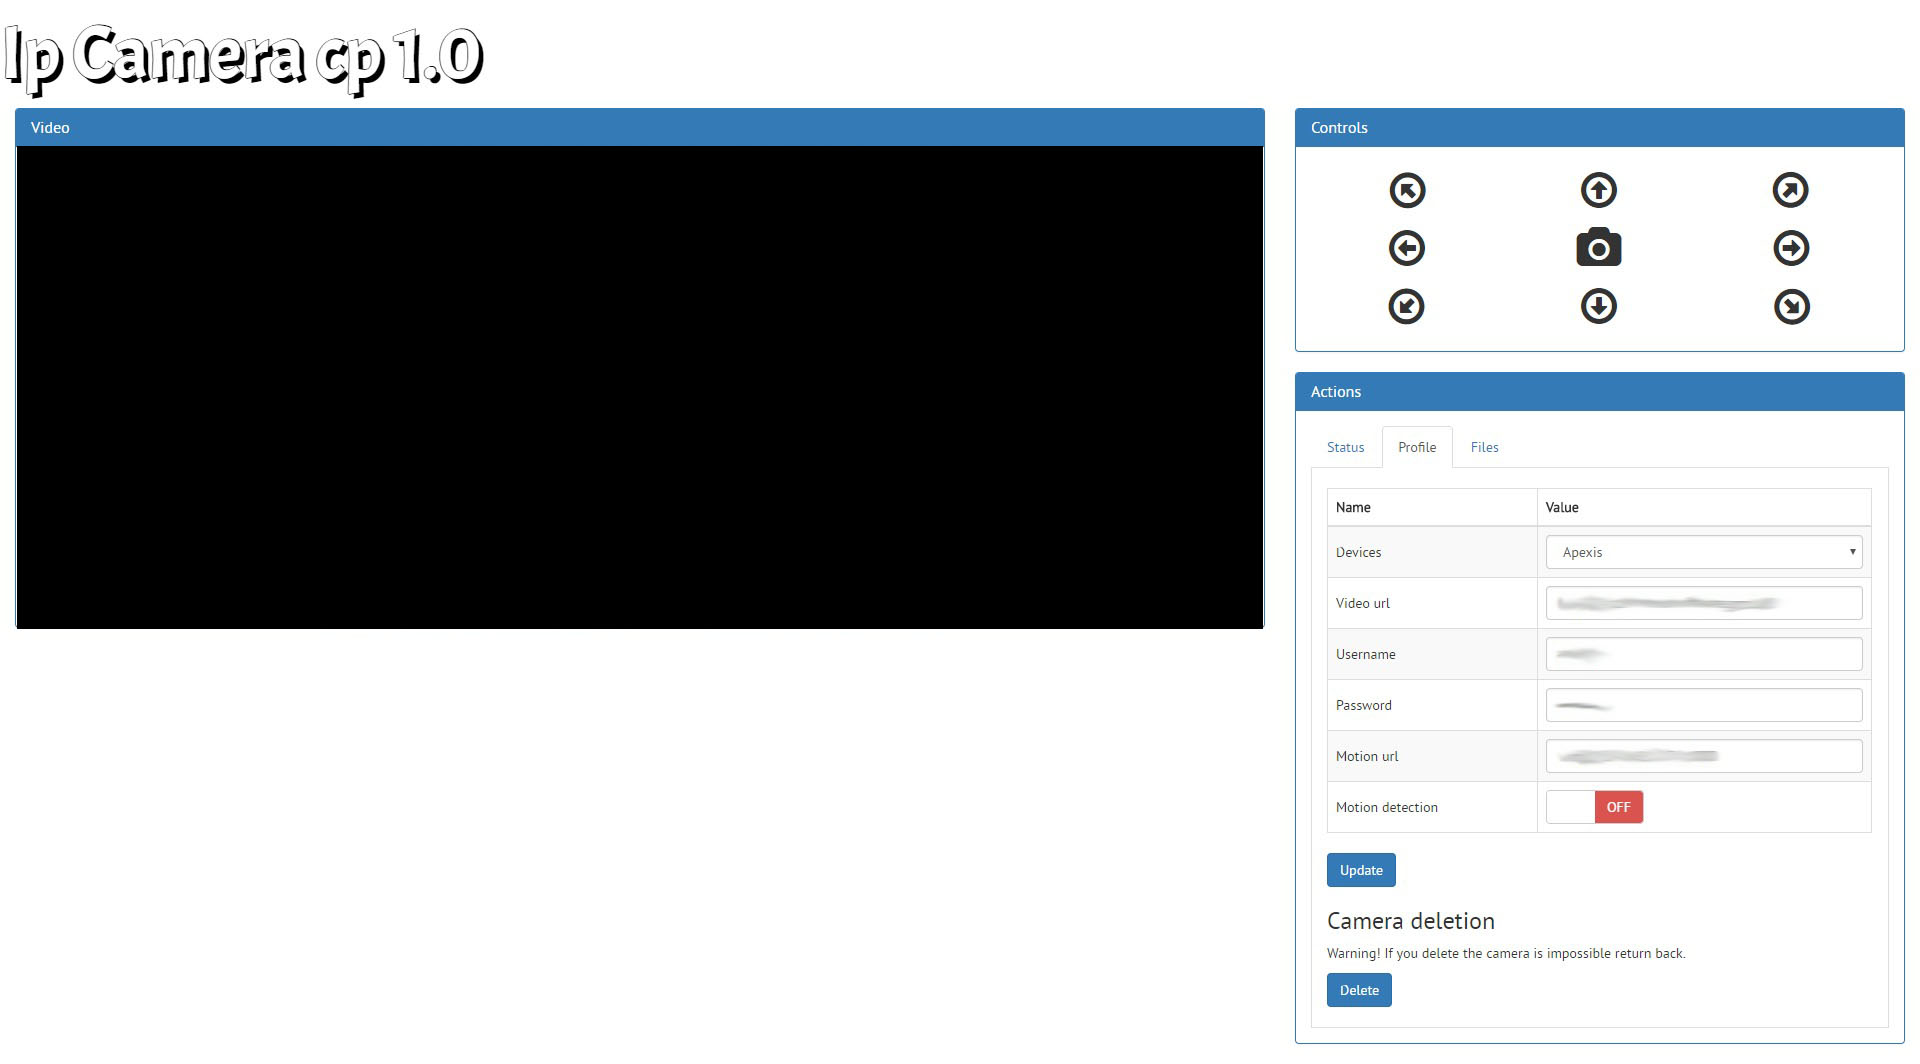
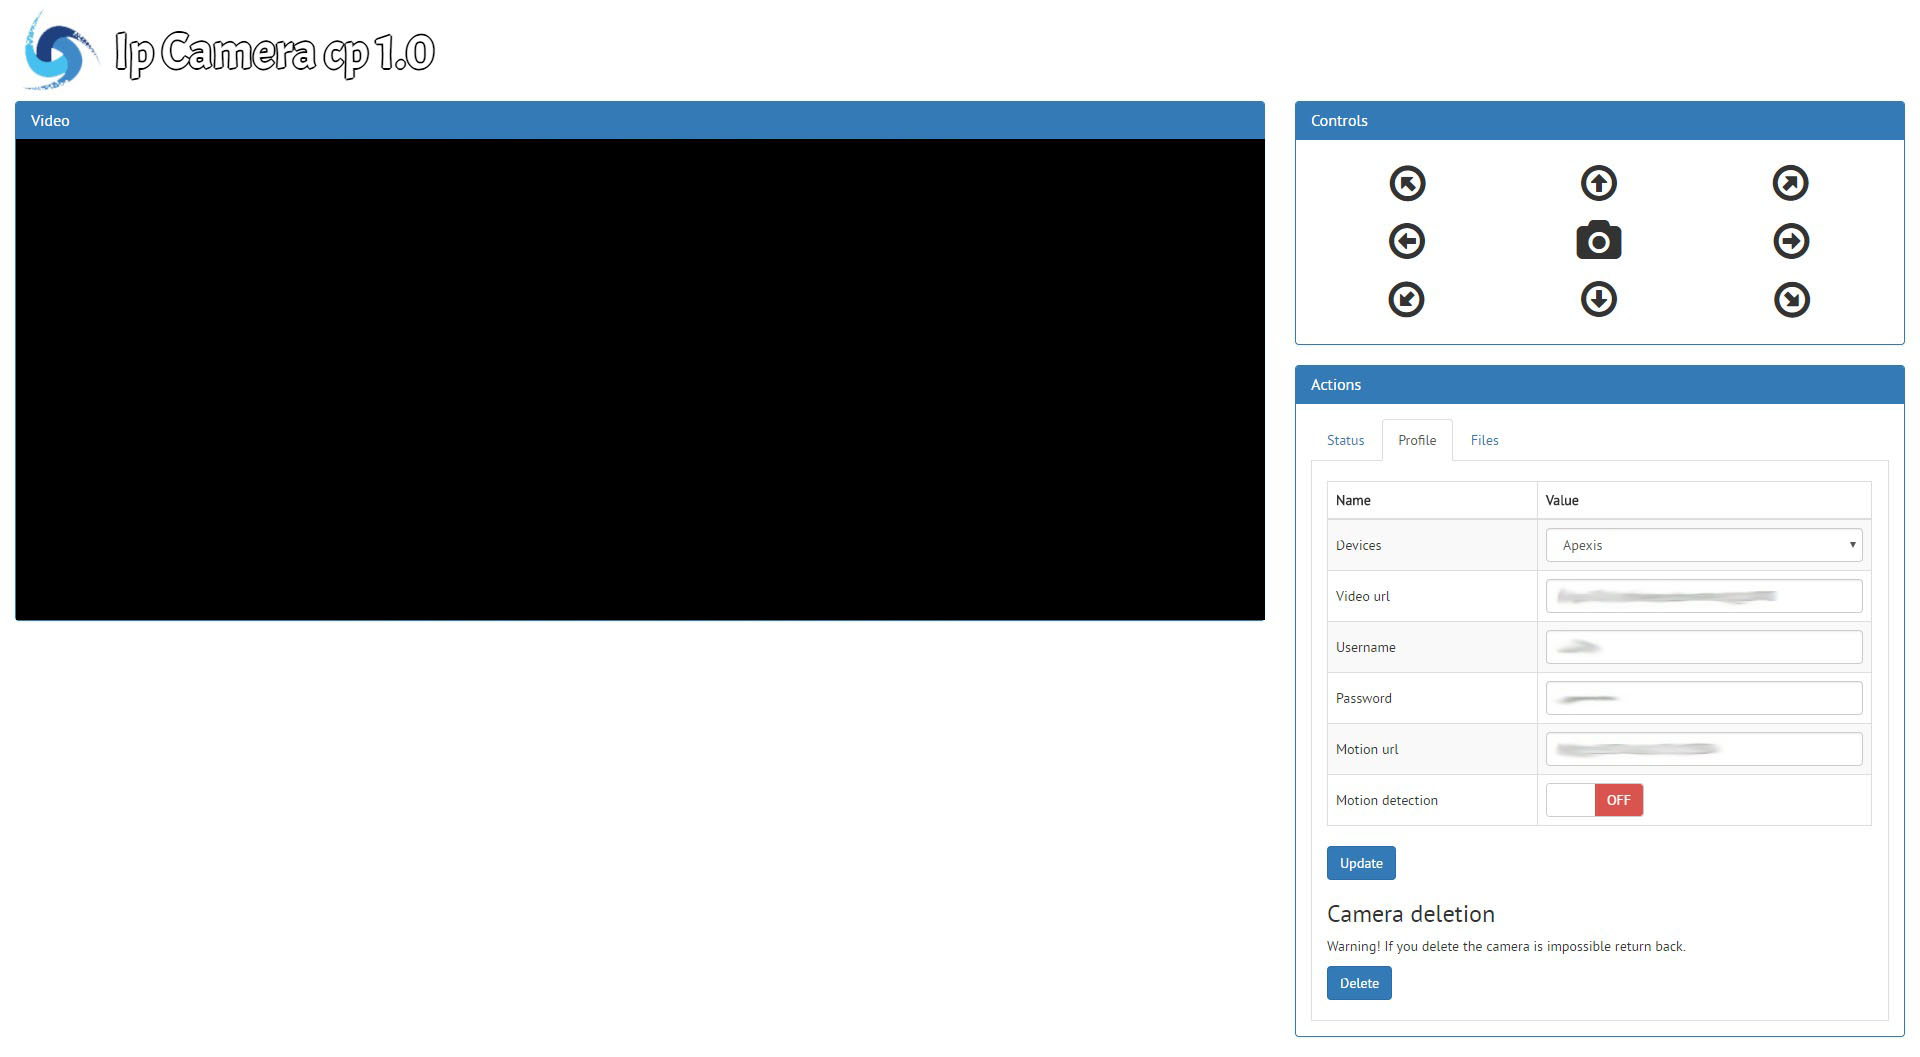
Code - Fix and update

diff --git a/Resources/public/css/basic.css b/Resources/public/css/basic.css
@@ -98,7 +98,7 @@ legend { width: inherit; padding: 0 10px; border-bottom: none; }
 
 .ui-sortable-handle { cursor: move; }
 
-.image_preload { min-height: 40px; min-width: 40px; background: url(../images/templates/basic/reload_image.gif) no-repeat 50% 50%; }
+.image_preload { min-height: 40px; min-width: 40px; background: url(../images/templates/basic/image_preload.gif) no-repeat 50% 50%; }
 
 .wordTag_label { display: inline-block; padding: 3px; vertical-align: top; background-color: #f5f5f5; border: 1px solid #d9d9d9; margin: 2px; }
 
@@ -155,11 +155,13 @@ legend { width: inherit; padding: 0 10px; border-bottom: none; }
 #upload .container_controls .container_progressBar { display: inline-block; vertical-align: middle; width: 50%; margin-bottom: 5px; }
 #upload .container_controls .container_buttons { display: inline-block; vertical-align: middle; margin-bottom: 5px; }
 
-.logo_big { display: none; font-family: "acme", sans-serif; font-size: 75px; color: #ffffff; text-shadow: 2px 0 0 #000000, -2px 0 0 #000000, 0 2px 0 #000000, 0 -2px 0 #000000, 1px 1px #000000, -1px -1px 0 #000000, 1px -1px 0 #000000, -1px 1px 0 #000000; margin: 0px 0px 0px 10px; }
+.logo_big { display: none; margin: 0px 0px 0px 10px; }
+.logo_big img { width: 100px; }
+.logo_big p { position: relative; top: 15px; font-family: "acme", sans-serif; font-size: 50px; color: #ffffff; text-shadow: 2px 0 0 #000000, -2px 0 0 #000000, 0 2px 0 #000000, 0 -2px 0 #000000, 1px 1px #000000, -1px -1px 0 #000000, 1px -1px 0 #000000, -1px 1px 0 #000000; margin: 0; }
 
-.logo_small { display: none; font-family: "acme", sans-serif; font-size: 24px; color: #ffffff; text-shadow: 2px 0 0 #000000, -2px 0 0 #000000, 0 2px 0 #000000, 0 -2px 0 #000000, 1px 1px #000000, -1px -1px 0 #000000, 1px -1px 0 #000000, -1px 1px 0 #000000; margin: 0px 0px 0px 10px; }
-
-.logo_message { font-family: "acme", sans-serif; font-size: 40px; color: #ffffff; text-shadow: 2px 0 0 #000000, -2px 0 0 #000000, 0 2px 0 #000000, 0 -2px 0 #000000, 1px 1px #000000, -1px -1px 0 #000000, 1px -1px 0 #000000, -1px 1px 0 #000000; text-align: center; margin: 0px; }
+.logo_small { display: none; margin: 10px 0px 10px 15px; }
+.logo_small img { width: 30px; }
+.logo_small p { position: relative; top: 5px; font-family: "acme", sans-serif; font-size: 20px; color: #ffffff; text-shadow: 2px 0 0 #000000, -2px 0 0 #000000, 0 2px 0 #000000, 0 -2px 0 #000000, 1px 1px #000000, -1px -1px 0 #000000, 1px -1px 0 #000000, -1px 1px 0 #000000; margin: 0; }
 
 .camera_tab_container { padding: 0 15px; border: 1px solid #dddddd; border-top: 0; }
 

diff --git a/Resources/public/scss/basic.scss b/Resources/public/scss/basic.scss
@@ -2,27 +2,39 @@
 
 .logo_big {
     display: none;
-    font-family: "acme", sans-serif;
-    font-size: 75px;
-    color: #ffffff;
-    text-shadow: 2px 0 0 #000000, -2px 0 0 #000000, 0 2px 0 #000000, 0 -2px 0 #000000, 1px 1px #000000, -1px -1px 0 #000000, 1px -1px 0 #000000, -1px 1px 0 #000000;
     margin: 0px 0px 0px 10px;
+    
+    img {
+        width: 100px;
+    }
+    
+    p {
+        position: relative;
+        top: 15px;
+        font-family: "acme", sans-serif;
+        font-size: 50px;
+        color: #ffffff;
+        text-shadow: 2px 0 0 #000000, -2px 0 0 #000000, 0 2px 0 #000000, 0 -2px 0 #000000, 1px 1px #000000, -1px -1px 0 #000000, 1px -1px 0 #000000, -1px 1px 0 #000000;
+        margin: 0;
+    }
 }
 .logo_small {
     display: none;
-    font-family: "acme", sans-serif;
-    font-size: 24px;
-    color: #ffffff;
-    text-shadow: 2px 0 0 #000000, -2px 0 0 #000000, 0 2px 0 #000000, 0 -2px 0 #000000, 1px 1px #000000, -1px -1px 0 #000000, 1px -1px 0 #000000, -1px 1px 0 #000000;
-    margin: 0px 0px 0px 10px;
-}
-.logo_message {
-    font-family: "acme", sans-serif;
-    font-size: 40px;
-    color: #ffffff;
-    text-shadow: 2px 0 0 #000000, -2px 0 0 #000000, 0 2px 0 #000000, 0 -2px 0 #000000, 1px 1px #000000, -1px -1px 0 #000000, 1px -1px 0 #000000, -1px 1px 0 #000000;
-    text-align: center;
-    margin: 0px;
+    margin: 10px 0px 10px 15px;
+    
+    img {
+        width: 30px;
+    }
+    
+    p {
+        position: relative;
+        top: 5px;
+        font-family: "acme", sans-serif;
+        font-size: 20px;
+        color: #ffffff;
+        text-shadow: 2px 0 0 #000000, -2px 0 0 #000000, 0 2px 0 #000000, 0 -2px 0 #000000, 1px 1px #000000, -1px -1px 0 #000000, 1px -1px 0 #000000, -1px 1px 0 #000000;
+        margin: 0;
+    }
 }
 
 @media(max-width: $maxWidth) {

diff --git a/Resources/public/js/Utility.js b/Resources/public/js/Utility.js
@@ -86,14 +86,14 @@ function Utility() {
         
         $.each(options, function(key, val) {
             var optionValue = parseInt(val.value);
-            var optionText = val.text;
+            var optionText = val.text.substr(0, val.text.indexOf("-|") + 2);
             var idElementSelected = parseInt(xhr.response.values.id);
             
             if (optionValue === idElementSelected) {
                 disabled = true;
                 optionLength = optionText.length;
             }
-            else if (optionText.length < optionLength)
+            else if (optionText.length <= optionLength)
                 disabled = false;
             
             if (disabled === true)
@@ -373,8 +373,7 @@ function Utility() {
                 event.preventDefault();
                 event.stopPropagation();
                 
-                $(this).parent(".dropdown-menu").children("li.dropdown").find(".open").removeClass("open");
-                $(this).parent(".dropdown-menu").children("li.dropdown").removeClass("open");
+                $(tag).find(".dropdown-menu").parent("li.dropdown").not($(event.target).parents(".dropdown")).removeClass("open");
                 
                 if ($(this).hasClass("open") === false)
                     $(this).addClass("open");

diff --git a/Resources/public/css/utility.css b/Resources/public/css/utility.css
@@ -98,7 +98,7 @@ legend { width: inherit; padding: 0 10px; border-bottom: none; }
 
 .ui-sortable-handle { cursor: move; }
 
-.image_preload { min-height: 40px; min-width: 40px; background: url(../images/templates/basic/reload_image.gif) no-repeat 50% 50%; }
+.image_preload { min-height: 40px; min-width: 40px; background: url(../images/templates/basic/image_preload.gif) no-repeat 50% 50%; }
 
 .wordTag_label { display: inline-block; padding: 3px; vertical-align: top; background-color: #f5f5f5; border: 1px solid #d9d9d9; margin: 2px; }
 

diff --git a/Resources/public/scss/utility.scss b/Resources/public/scss/utility.scss
@@ -258,7 +258,7 @@ legend {
 .image_preload {
     min-height: 40px;
     min-width: 40px;
-    background: url(../images/templates/basic/reload_image.gif) no-repeat 50% 50%;
+    background: url(../images/templates/basic/image_preload.gif) no-repeat 50% 50%;
 }
 
 .wordTag_label {

diff --git a/Resources/views/render/index.php b/Resources/views/render/index.php
@@ -32,8 +32,14 @@ $settingRow = $query->selectSettingDatabase();
     </head>
     <body class="user_select_none">
         <div>
-            <p class="logo_big display_desktop"><?php echo $utility->getWebsiteName(); ?></p>
-            <p class="logo_small display_mobile"><?php echo $utility->getWebsiteName(); ?></p>
+            <div class="logo_big display_desktop">
+                <img class="display_inline_block" src="<?php echo $utility->getUrlRoot(); ?>/Resources/public/images/templates/<?php echo $settingRow['template']; ?>/logo_icon.png"/>
+                <p class="display_inline_block"><?php echo $utility->getWebsiteName(); ?></p>
+            </div>
+            <div class="logo_small display_mobile">
+                <img class="display_inline_block" src="<?php echo $utility->getUrlRoot(); ?>/Resources/public/images/templates/<?php echo $settingRow['template']; ?>/logo_icon.png"/>
+                <p class="display_inline_block"><?php echo $utility->getWebsiteName(); ?></p>
+            </div>
         </div>
         <div class="container-fluid">
             <div class="row">
@@ -51,7 +57,7 @@ $settingRow = $query->selectSettingDatabase();
                                 <h3 class="panel-title">Video</h3>
                             </div>
                             <div class="pull-right display_mobile">
-                                <input id="camera_control_swipe_switch" type="checkbox" data-on-color="success" data-off-color="danger"/>
+                                <input id="camera_control_swipe_switch" type="checkbox" data-on-text="Drag on" data-on-color="success" data-off-text="Drag off" data-off-color="danger"/>
                                 <i class="fa fa-camera fa-3x camera_controls camera_control_picture"></i>
                             </div>
                         </div>

diff --git a/Config.php b/Config.php
@@ -10,14 +10,19 @@ if (session_id() == "")
 
 class Config {
     // Vars
+    private $databaseConnectionFields;
     private $protocol;
     private $pathRoot;
     private $urlRoot;
+    private $supportSymlink;
     private $file;
-    private $databaseConnectionFields;
     private $name;
     
     // Properties
+    public function getDatabaseConnectionFields() {
+        return $this->databaseConnectionFields;
+    }
+    
     public function getProtocol() {
         return $this->protocol;
     }
@@ -30,12 +35,12 @@ class Config {
         return $this->urlRoot;
     }
     
-    public function getFile() {
-        return $this->file;
+    public function getSupportSymlink() {
+        return $this->supportSymlink;
     }
     
-    public function getDatabaseConnectionFields() {
-        return $this->databaseConnectionFields;
+    public function getFile() {
+        return $this->file;
     }
     
     public function getName() {
@@ -44,11 +49,12 @@ class Config {
     
     // Functions public
     public function __construct() {
+        $this->databaseConnectionFields = Array("mysql:host=localhost;dbname=ipcamera_cp;charset=utf8", "user_1", "Password1");
         $this->protocol = "http://";
         $this->pathRoot = "/ipcamera_cp";
         $this->urlRoot = "/ipcamera_cp";
+        $this->supportSymlink = true;
         $this->file = "";
-        $this->databaseConnectionFields = Array("mysql:host=localhost;dbname=ipcamera_cp;charset=utf8", "user_1", "Password1");
         $this->name = "Ip Camera cp 1.0";
     }
 

diff --git a/Classes/UtilityPrivate.php b/Classes/UtilityPrivate.php
@@ -25,9 +25,8 @@ class UtilityPrivate {
     public function checkSessionOverTime($root = false) {
         if ($root == true) {
             if (isset($_SESSION['user_activity']) == false) {
+                $_SESSION['user_activity_count'] = 0;
                 $_SESSION['user_activity'] = "";
-                
-                $_SESSION['count_root'] = 0;
             }
         }
         
@@ -73,12 +72,11 @@ class UtilityPrivate {
         }
         
         if ($root == true && $_SESSION['user_activity'] != "") {
-            $_SESSION['count_root'] ++;
+            $_SESSION['user_activity_count'] ++;
 
-            if ($_SESSION['count_root'] > 2) {
+            if ($_SESSION['user_activity_count'] > 2) {
+                $_SESSION['user_activity_count'] = 0;
                 $_SESSION['user_activity'] = "";
-                
-                $_SESSION['count_root'] = 0;
             }
         }
     }

diff --git a/Classes/Utility.php b/Classes/Utility.php
@@ -15,6 +15,8 @@ class Utility {
     
     private $urlRoot;
     
+    private $supportSymlink;
+    
     private $websiteFile;
     private $websiteName;
     
@@ -33,6 +35,10 @@ class Utility {
     
     public function getUrlRoot() {
         return $this->urlRoot;
+    }
+    
+    public function getSupportSymlink() {
+        return $this->supportSymlink;
     }
     
     public function getWebsiteFile() {
@@ -54,6 +60,8 @@ class Utility {
         $this->pathRoot = $_SERVER['DOCUMENT_ROOT'] . $this->config->getPathRoot();
         
         $this->urlRoot = $this->config->getProtocol() . $_SERVER['HTTP_HOST'] . $this->config->getUrlRoot();
+        
+        $this->supportSymlink = $this->config->getSupportSymlink();
         
         $this->websiteFile = $this->config->getFile();
         $this->websiteName = $this->config->getName();

diff --git a/README.md b/README.md
@@ -7,6 +7,7 @@ This is a open source Ip Camera control panel with FFMPEG and motion framework
 |:---|
 | Full responsive (smartphone, tablet, pc) |
 | Multibrowser (Chrome, firefox, internet explorer, opera, safari) |
+| Work on internet and lan (server, cloud, ...) |
 | Work with a lot model of ip camera |
 | Remote camera control (Move and take picture) |
 | Check status |
